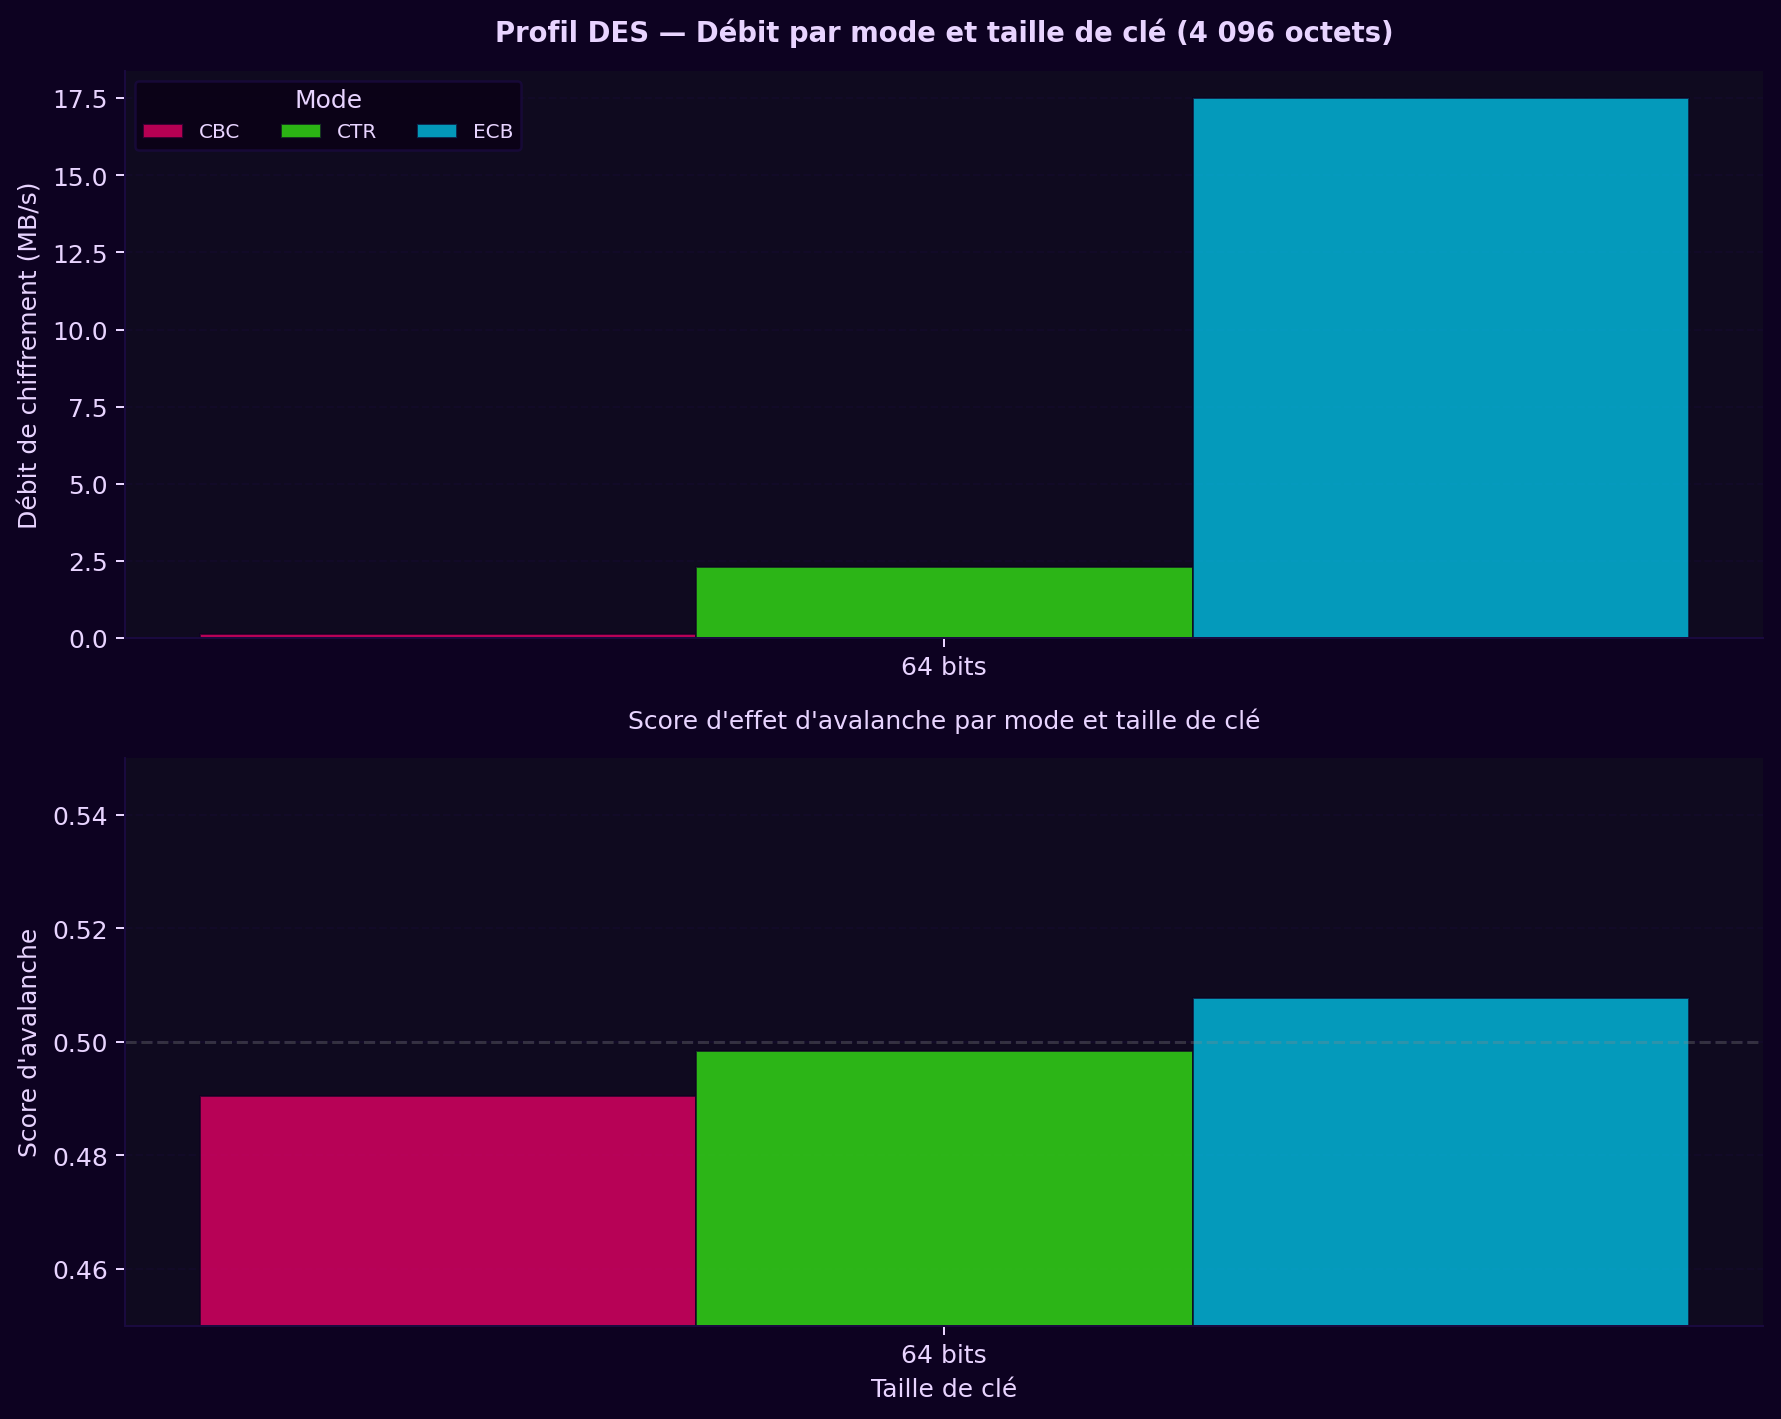
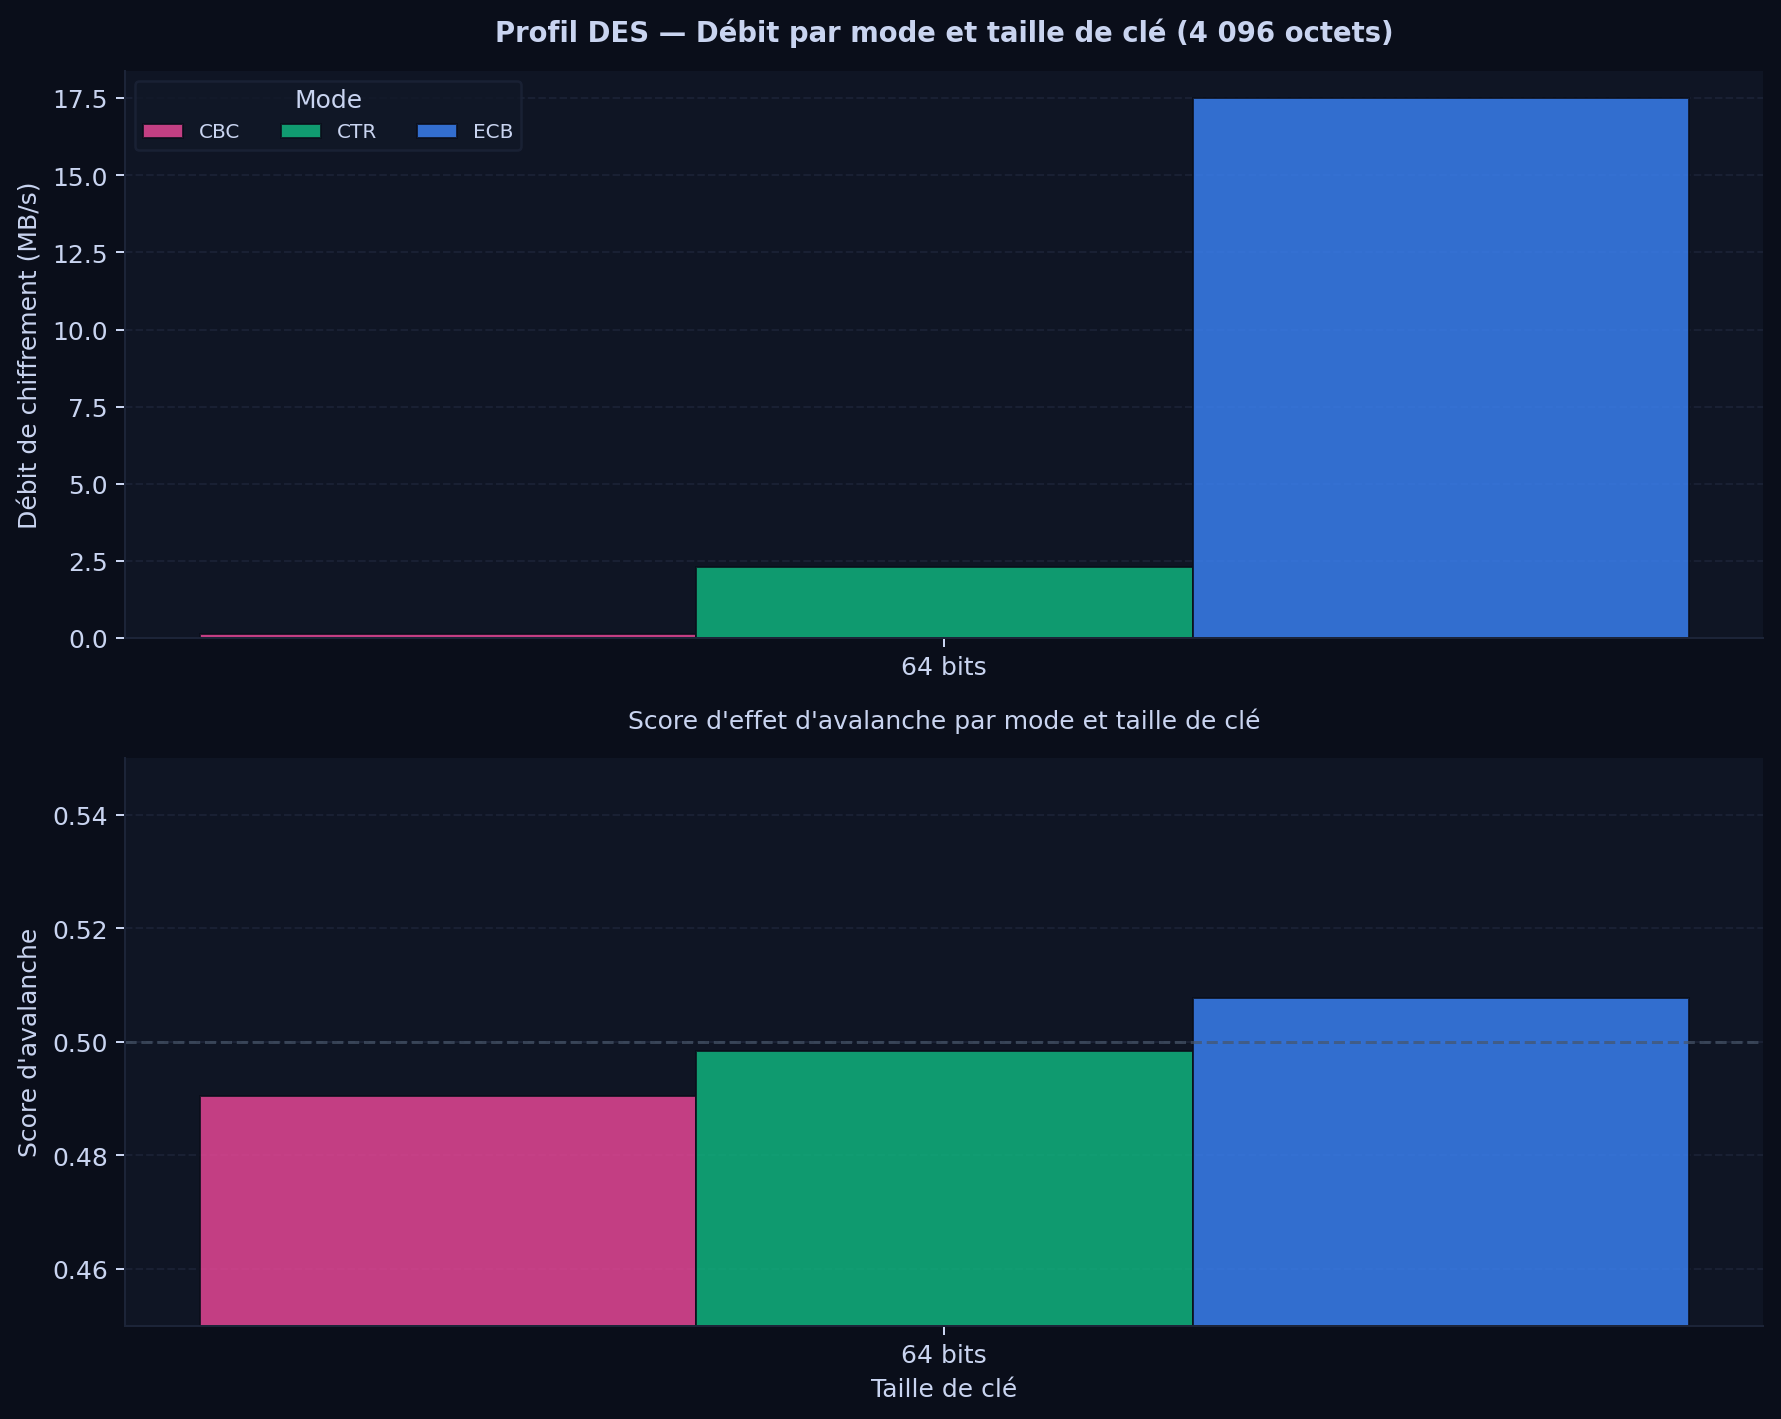
Revert "Modernize charts with cyberpunk neon aesthetic ✨"
This reverts commit e9f2fdc962efea5b02fef48f3ca7b44eb045a095.

diff --git a/crypto-experiments/scripts/generate_charts.py b/crypto-experiments/scripts/generate_charts.py
@@ -61,12 +61,12 @@ with open(CSV_PATH, newline="", encoding="utf-8") as f:
         })
 
 # ---------------------------------------------------------------------------
-# Palette — couleurs cohérentes par algorithme (cyberpunk neon)
+# Palette — couleurs cohérentes par algorithme
 # ---------------------------------------------------------------------------
-BG_COLOR    = "#0D0221"    # deep dark navy/purple
-PANEL_COLOR = "#0F0A1F"    # slightly lighter dark purple
-GRID_COLOR  = "#1a0a3f"    # neon-lit grid
-TEXT_COLOR  = "#E8D4FF"    # soft lavender
+BG_COLOR    = "#0A0E1A"
+PANEL_COLOR = "#0F1524"
+GRID_COLOR  = "#1C2438"
+TEXT_COLOR  = "#C9D4F0"
 
 plt.rcParams.update({
     "figure.facecolor":  BG_COLOR,
@@ -79,26 +79,26 @@ plt.rcParams.update({
     "text.color":        TEXT_COLOR,
     "grid.color":        GRID_COLOR,
     "grid.linestyle":    "--",
-    "grid.alpha":        0.3,
-    "legend.facecolor":  "#0a0015",
-    "legend.edgecolor":  "#1a0a3f",
+    "grid.alpha":        0.8,
+    "legend.facecolor":  "#111827",
+    "legend.edgecolor":  "#1C2438",
     "legend.labelcolor": TEXT_COLOR,
     "font.family":       "DejaVu Sans",
     "axes.titlepad":     12,
 })
 
 ALGO_COLORS = {
-    "AES":      "#00D9FF",   # neon cyan
-    "DES":      "#FF006E",   # hot magenta
-    "3DES":     "#B700FF",   # electric purple
-    "Twofish":  "#39FF14",   # neon lime
-    "ChaCha20": "#FF10F0",   # neon pink
+    "AES":      "#3B82F6",   # vivid blue
+    "DES":      "#EC4899",   # hot pink
+    "3DES":     "#A855F7",   # purple
+    "Twofish":  "#10B981",   # emerald green
+    "ChaCha20": "#06B6D4",   # cyan
 }
 MODE_COLORS = {
-    "ECB": "#00D9FF",   # neon cyan
-    "CBC": "#FF006E",   # hot magenta
-    "CTR": "#39FF14",   # neon lime
-    "GCM": "#FFB700",   # neon orange
+    "ECB": "#3B82F6",   # blue
+    "CBC": "#EC4899",   # pink
+    "CTR": "#10B981",   # green
+    "GCM": "#F59E0B",   # amber
 }
 MODE_HATCH = {"ECB": "", "CBC": "//", "CTR": "xx", "GCM": ".."}
 
@@ -207,7 +207,7 @@ def fig2_throughput_vs_size():
         sizes = [r["message_size_bytes"] for r in subset]
         mbps  = [r["throughput_enc_mbps"] for r in subset]
         ax.plot(sizes, mbps, marker="o", label=f"{algo}-{key_bits}b",
-                color=ALGO_COLORS[algo], linewidth=2.2, markersize=5, alpha=0.85)
+                color=ALGO_COLORS[algo], linewidth=2.2, markersize=5, alpha=0.92)
 
     ax.set_xscale("log", base=2)
     ax.set_xticks(msg_sizes)
@@ -246,7 +246,7 @@ def fig3_aes_mode_comparison():
         sizes = [r["message_size_bytes"] for r in subset]
         mbps  = [r["throughput_enc_mbps"] for r in subset]
         ax.plot(sizes, mbps, marker="o", label=mode,
-                color=MODE_COLORS[mode], linewidth=2.2, markersize=5, alpha=0.85)
+                color=MODE_COLORS[mode], linewidth=2.2, markersize=5, alpha=0.92)
 
     ax.set_xscale("log", base=2)
     ax.set_xticks(msg_sizes)
@@ -283,7 +283,7 @@ def fig4_avalanche():
     fig.patch.set_facecolor(BG_COLOR)
     bars = ax.bar(algos, means, yerr=stdevs, color=colors, capsize=6,
                   edgecolor=BG_COLOR, linewidth=0.8, width=0.5,
-                  alpha=0.7,
+                  alpha=0.82,
                   error_kw={"linewidth": 1.5, "ecolor": TEXT_COLOR})
     ax.axhline(0.5, color="#475569", linestyle="--", linewidth=1.4,
                label="Valeur idéale (0,50)")
@@ -376,9 +376,9 @@ def fig5_enc_vs_dec():
     fig, ax = plt.subplots(figsize=(FIG_W, 5.5))
     fig.patch.set_facecolor(BG_COLOR)
     ax.bar(x - w/2, enc_vals, w, label="Chiffrement",
-           color=colors, edgecolor=BG_COLOR, linewidth=0.8, alpha=0.4)
+           color=colors, edgecolor=BG_COLOR, linewidth=0.8, alpha=0.50)
     ax.bar(x + w/2, dec_vals, w, label="Déchiffrement",
-           color=colors, edgecolor=BG_COLOR, linewidth=0.8, alpha=0.78)
+           color=colors, edgecolor=BG_COLOR, linewidth=0.8, alpha=0.88)
 
     ax.set_xticks(x)
     ax.set_xticklabels(labels, fontsize=8)
@@ -417,7 +417,7 @@ def fig6_key_size_impact():
             vals.append(match[0]["throughput_enc_mbps"] if match else 0)
         ax.bar(x + offset, vals, w, label=mode,
                color=MODE_COLORS.get(mode, "#888"),
-               edgecolor=BG_COLOR, linewidth=0.8, alpha=0.7)
+               edgecolor=BG_COLOR, linewidth=0.8, alpha=0.82)
 
     ax.set_xticks(x)
     ax.set_xticklabels([f"{k} bits" for k in key_bits])
@@ -468,7 +468,7 @@ def algo_profile(algo_name):
             vals.append(match[0]["throughput_enc_mbps"] if match else 0)
         ax1.bar(x + offset, vals, w, label=mode,
                color=MODE_COLORS.get(mode, "#888"),
-               edgecolor=BG_COLOR, linewidth=0.8, alpha=0.7)
+               edgecolor=BG_COLOR, linewidth=0.8, alpha=0.82)
     
     ax1.set_xticks(x)
     ax1.set_xticklabels([f"{k} bits" for k in key_bits_list])
@@ -486,9 +486,9 @@ def algo_profile(algo_name):
             vals.append(match[0]["avalanche_score"] if match else 0)
         ax2.bar(x + offset, vals, w, label=mode,
                color=MODE_COLORS.get(mode, "#888"),
-               edgecolor=BG_COLOR, linewidth=0.8, alpha=0.7)
+               edgecolor=BG_COLOR, linewidth=0.8, alpha=0.82)
     
-    ax2.axhline(0.5, color="#888888", linestyle="--", linewidth=1.2, alpha=0.3)
+    ax2.axhline(0.5, color="#475569", linestyle="--", linewidth=1.2, alpha=0.7)
     ax2.set_xticks(x)
     ax2.set_xticklabels([f"{k} bits" for k in key_bits_list])
     ax2.set_xlabel("Taille de clé", fontsize=10)
